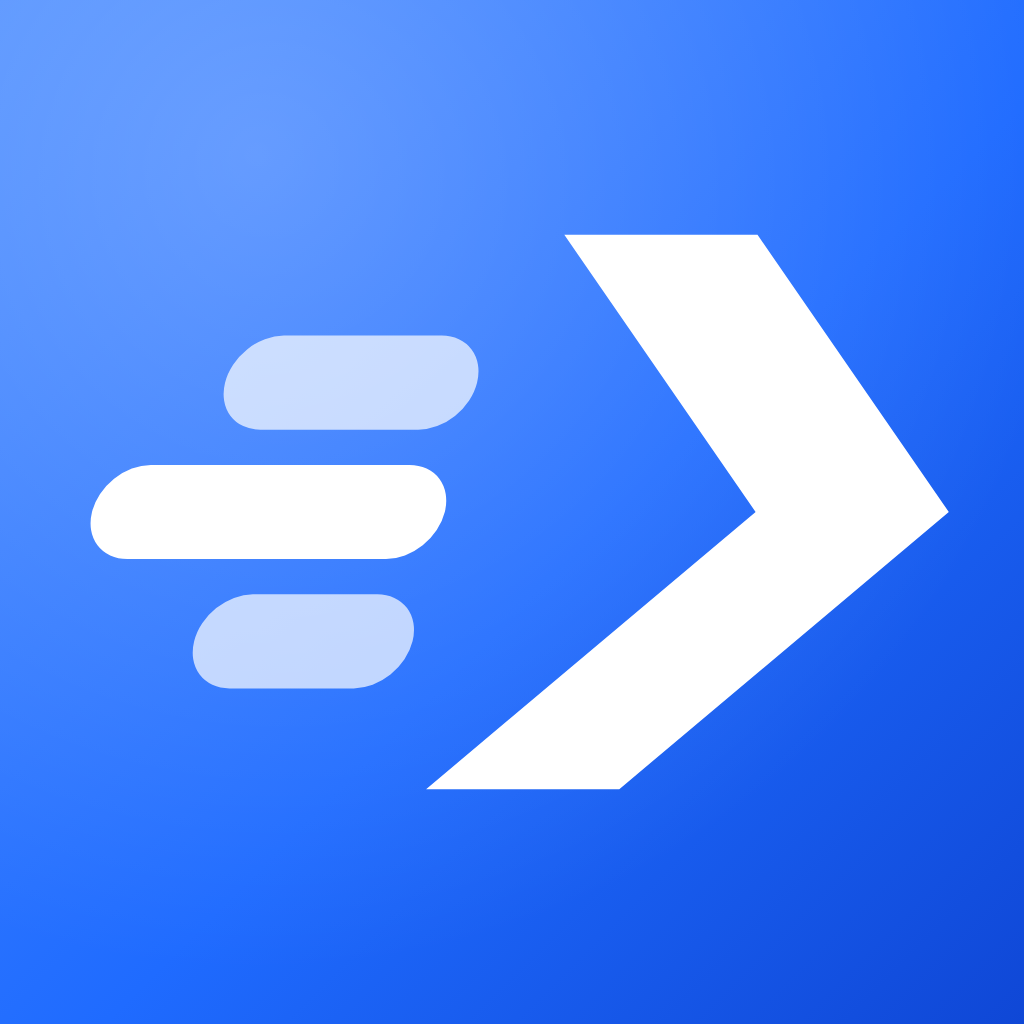
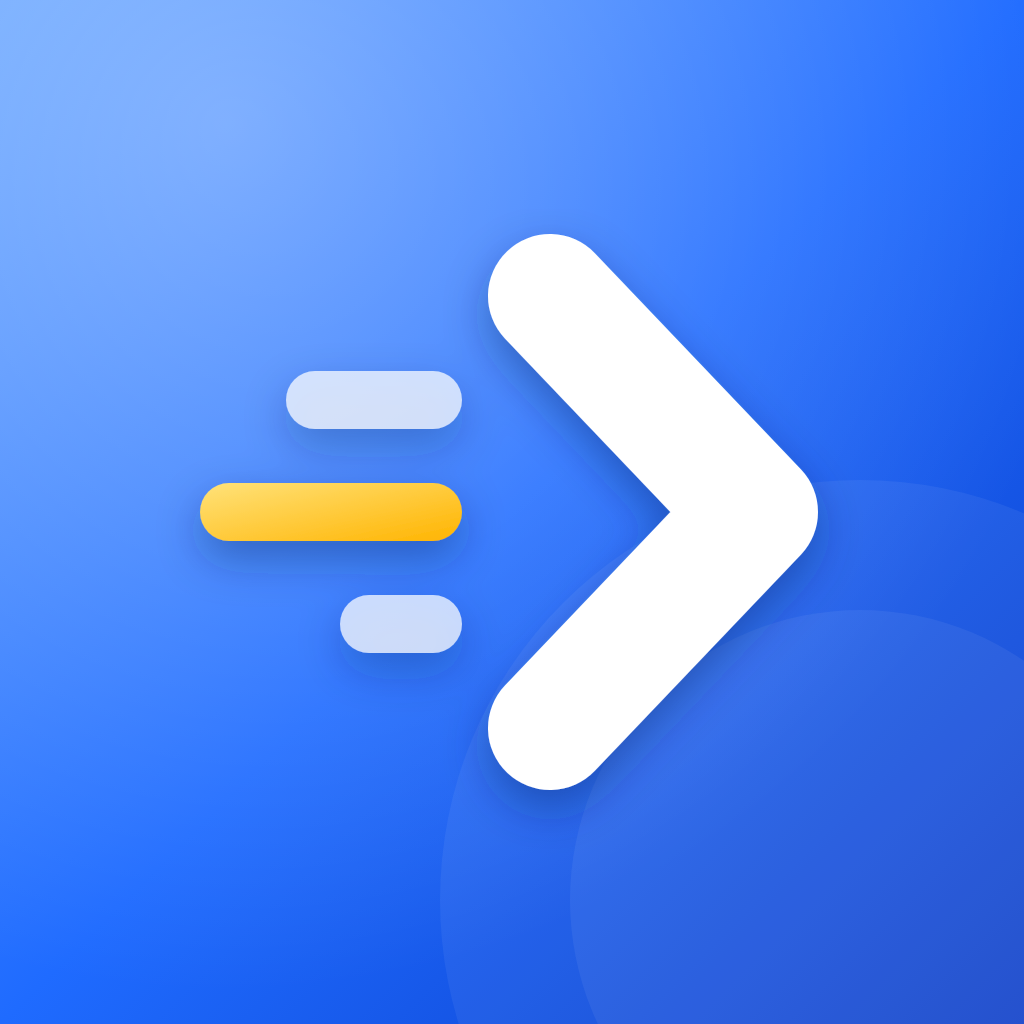
2.23.1: novo icone do app (seta com linhas de velocidade e destaque amarelo)
Claude-Session: https://claude.ai/code/session_01TBtfneZn9VEzFqsMbw5mQY

Changed region(s): [[0.0625, 0.2188, 0.9375, 0.8125], [0.0, 0.0, 0.3125, 0.25]]

diff --git a/assets/web/js/share.js b/assets/web/js/share.js
@@ -30,9 +30,9 @@ const ShareCard = {
   logo(x, X, Y, s, light) {
     const tg = x.createLinearGradient(X, Y, X + s, Y + s); tg.addColorStop(0, '#5B9BFF'); tg.addColorStop(0.52, '#1F6BFF'); tg.addColorStop(1, '#0F47D6');
     x.fillStyle = tg; x.beginPath(); x.roundRect(X, Y, s, s, s * 0.24); x.fill();
-    x.save(); x.translate(X, Y); x.scale(s / 64, s / 64); x.translate(32, 32); x.transform(1, 0, Math.tan((-14 * Math.PI) / 180), 1, 0, 0); x.translate(-30, -32); x.fillStyle = '#fff';
-    x.fill(new Path2D('M29 15.5h11.5L56 32 40.5 48.5H29L44.5 32z'));
-    [[11, 21.5, 15, 0.7], [5, 29.2, 21, 1], [13, 36.9, 13, 0.7]].forEach(([rx, ry, rw, o]) => { x.globalAlpha = o; x.beginPath(); x.roundRect(rx, ry, rw, 5.6, 2.8); x.fill(); });
+    x.save(); x.translate(X, Y); x.scale(s / 64, s / 64);
+    x.strokeStyle = '#fff'; x.lineWidth = 7.75; x.lineCap = 'round'; x.lineJoin = 'round'; x.beginPath(); x.moveTo(34.4, 18.5); x.lineTo(47.25, 32); x.lineTo(34.4, 45.5); x.stroke();
+    [[17.9, 23.2, 11, '#fff', 0.72], [12.5, 30.2, 16.4, '#FFC72E', 1], [21.25, 37.2, 7.6, '#fff', 0.72]].forEach(([rx, ry, rw, col, o]) => { x.globalAlpha = o; x.fillStyle = col; x.beginPath(); x.roundRect(rx, ry, rw, 3.6, 1.8); x.fill(); });
     x.globalAlpha = 1; x.restore();
     x.font = 'italic ' + this.F(900, s * 0.75); x.textBaseline = 'middle'; x.fillStyle = light ? '#fff' : '#0B1220';
     x.fillText('Just', X + s * 1.25, Y + s / 2 + 2); const jw = x.measureText('Just').width; x.fillStyle = light ? '#7DB0FF' : '#1F6BFF'; x.fillText('Go', X + s * 1.25 + jw, Y + s / 2 + 2);

diff --git a/assets/web/js/view3d.js b/assets/web/js/view3d.js
@@ -339,10 +339,9 @@ const View3D = {
     g.save(); g.translate(x, y); g.scale(sz / 64, sz / 64);
     const gr = g.createLinearGradient(0, 0, 64, 64); gr.addColorStop(0, '#4A8CFF'); gr.addColorStop(0.55, '#1F6BFF'); gr.addColorStop(1, '#0F47D6');
     g.beginPath(); g.roundRect ? g.roundRect(0, 0, 64, 64, 15) : g.rect(0, 0, 64, 64); g.fillStyle = gr; g.fill();
-    g.translate(32, 32); g.scale(1.075, 1.075); g.transform(1, 0, Math.tan((-14 * Math.PI) / 180), 1, 0, 0); g.translate(-30, -32);
-    g.fillStyle = '#fff'; g.fill(new Path2D('M29 15.5h11.5L56 32 40.5 48.5H29L44.5 32z'));
-    const bar = (bx, by, w, o) => { g.globalAlpha = o; g.beginPath(); g.roundRect ? g.roundRect(bx, by, w, 5.6, 2.8) : g.rect(bx, by, w, 5.6); g.fill(); };
-    const A = g.globalAlpha; bar(11, 21.5, 15, 0.7 * A); bar(5, 29.2, 21, A); bar(13, 36.9, 13, 0.7 * A); g.globalAlpha = A;
+    g.strokeStyle = '#fff'; g.lineWidth = 7.75; g.lineCap = 'round'; g.lineJoin = 'round'; g.beginPath(); g.moveTo(34.4, 18.5); g.lineTo(47.25, 32); g.lineTo(34.4, 45.5); g.stroke();
+    const A = g.globalAlpha, bar = (bx, by, w, col, o) => { g.globalAlpha = o * A; g.fillStyle = col; g.beginPath(); g.roundRect ? g.roundRect(bx, by, w, 3.6, 1.8) : g.rect(bx, by, w, 3.6); g.fill(); };
+    bar(17.9, 23.2, 11, '#fff', 0.72); bar(12.5, 30.2, 16.4, '#FFC72E', 1); bar(21.25, 37.2, 7.6, '#fff', 0.72); g.globalAlpha = A;
     g.restore();
   },
 

diff --git a/assets/web/js/icons.js b/assets/web/js/icons.js
@@ -104,6 +104,6 @@ function I(name, cls = '') {
   return `<svg class="ic ${cls}" viewBox="0 0 24 24" fill="none" stroke="currentColor" stroke-width="1.9" stroke-linecap="round" stroke-linejoin="round" aria-hidden="true">${ICONS[name] || ICONS.sparkles}</svg>`;
 }
 // logo: seta veloz (avanço + linhas de velocidade)
-const LOGO_PATH = '<g transform="translate(32 32) skewX(-14) translate(-30 -32)"><path d="M29 15.5h11.5L56 32 40.5 48.5H29L44.5 32z" fill="currentColor"/><rect x="11" y="21.5" width="15" height="5.6" rx="2.8" fill="currentColor" opacity=".7"/><rect x="5" y="29.2" width="21" height="5.6" rx="2.8" fill="currentColor"/><rect x="13" y="36.9" width="13" height="5.6" rx="2.8" fill="currentColor" opacity=".7"/></g>';
+const LOGO_PATH = '<path d="M34.4 18.5 47.25 32 34.4 45.5" fill="none" stroke="currentColor" stroke-width="7.75" stroke-linecap="round" stroke-linejoin="round"/><rect x="17.9" y="23.2" width="11" height="3.6" rx="1.8" fill="currentColor" opacity=".72"/><rect x="12.5" y="30.2" width="16.4" height="3.6" rx="1.8" fill="#FFC72E"/><rect x="21.25" y="37.2" width="7.6" height="3.6" rx="1.8" fill="currentColor" opacity=".72"/>';
 const GLYPH = (cls = '') => `<svg class="glyph ${cls}" viewBox="0 0 64 64" aria-hidden="true">${LOGO_PATH}</svg>`;
 const MARK = (cls = '') => `<span class="logo-tile ${cls}" aria-hidden="true">${GLYPH()}</span>`;

diff --git a/assets/web/index.html b/assets/web/index.html
@@ -20,7 +20,7 @@
 </head>
 <body>
   <!-- abertura -->
-  <div id="splash"><span class="sp-tile"><svg viewBox="0 0 64 64" style="color:#fff"><g transform="translate(32 32) skewX(-14) translate(-30 -32)"><path d="M29 15.5h11.5L56 32 40.5 48.5H29L44.5 32z" fill="currentColor"/><rect class="sp-line" x="11" y="21.5" width="15" height="5.6" rx="2.8" fill="currentColor" opacity=".7"/><rect class="sp-line" x="5" y="29.2" width="21" height="5.6" rx="2.8" fill="currentColor"/><rect class="sp-line" x="13" y="36.9" width="13" height="5.6" rx="2.8" fill="currentColor" opacity=".7"/></g></svg></span><b>Just<span>Go</span></b></div>
+  <div id="splash"><span class="sp-tile"><svg viewBox="0 0 64 64" style="color:#fff"><path d="M34.4 18.5 47.25 32 34.4 45.5" fill="none" stroke="currentColor" stroke-width="7.75" stroke-linecap="round" stroke-linejoin="round"/><rect class="sp-line" x="17.9" y="23.2" width="11" height="3.6" rx="1.8" fill="currentColor" opacity=".72"/><rect class="sp-line" x="12.5" y="30.2" width="16.4" height="3.6" rx="1.8" fill="#FFC72E"/><rect class="sp-line" x="21.25" y="37.2" width="7.6" height="3.6" rx="1.8" fill="currentColor" opacity=".72"/></svg></span><b>Just<span>Go</span></b></div>
   <div id="app"></div>
 
   <!-- Barra de navegação inferior -->

diff --git a/assets/web/js/config.js b/assets/web/js/config.js
@@ -4,7 +4,7 @@
    Nada neste arquivo exige mexer no resto do código.
    ========================================================= */
 const CONFIG = {
-  version: '2.23.0',
+  version: '2.23.1',
 
   /* ---------- Esportes ----------
      xpPerKm: peso do XP por km (natação vale mais que pedal)
